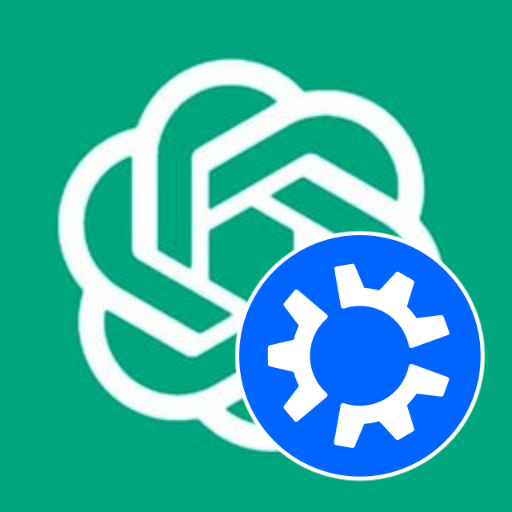
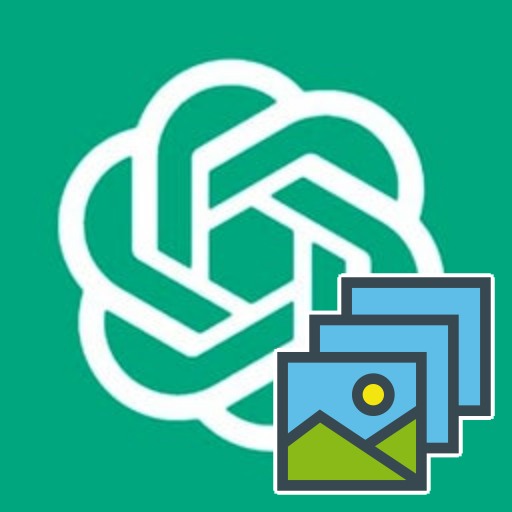
draw

Changed region(s): [[0.4375, 0.4375, 0.9688, 0.9688]]

diff --git a/app/chatgpt/project/draw-icon/index.html b/app/chatgpt/project/draw-icon/index.html
@@ -3,12 +3,12 @@
 <head>
     <!-- =========================== -->
 
-    <title>My Kubuntu - ChatGPT</title>
+    <title>Icon Draw - ChatGPT</title>
     <link rel="icon" type="image/png" href="icon.png" />
 
     <script>
         // let url = "https://gemini.google.com/gem/1SExoYmvwuZ9bSP3eDjonwVYIYxQxQPet?usp=sharing"
-        let url = "https://chatgpt.com/g/g-p-6a30500b92208191bceadb62ba29053c-wo-de-kubuntu/project"
+        let url = "https://chatgpt.com/g/g-p-6a40bbefd43c8191aeaf3f3c9e004369/project"
         window.onload = function () {
             checkLocalStorage(url)
         }
